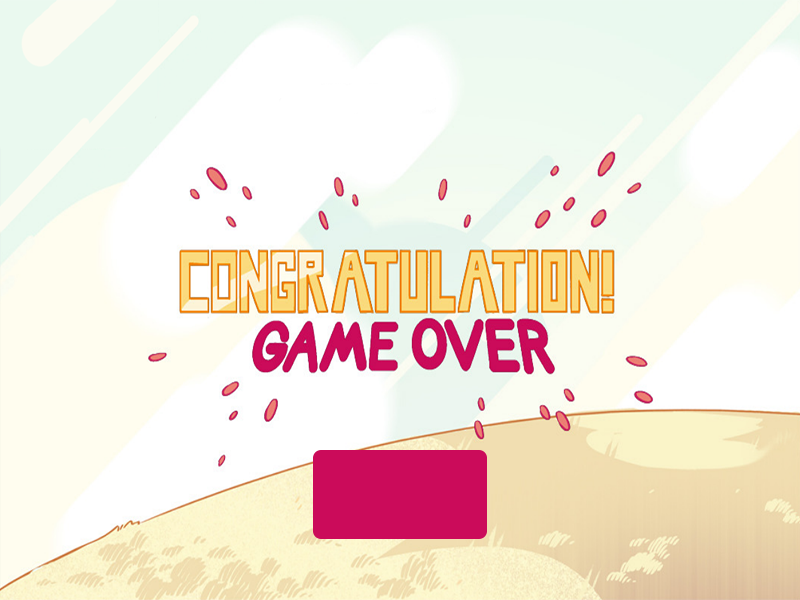
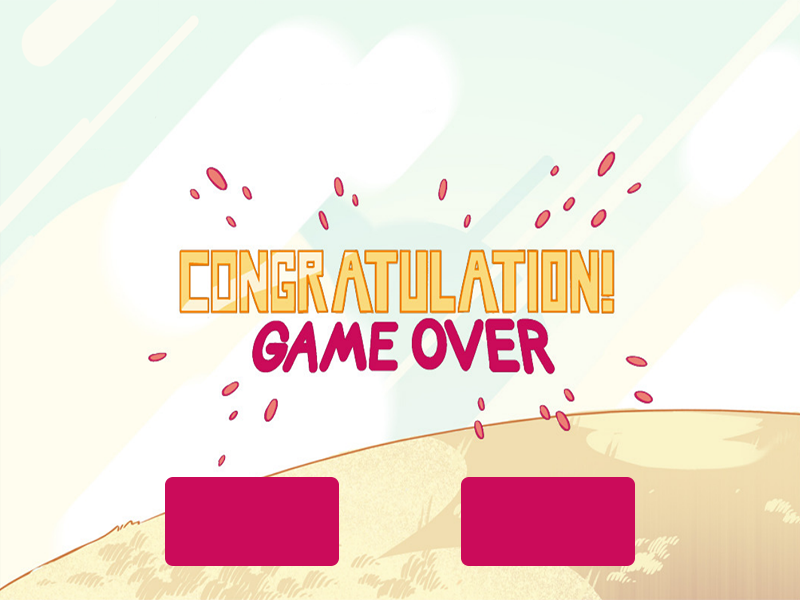
added credits and completed game

Changed region(s): [[0.1875, 0.75, 0.8125, 0.96]]

diff --git a/src/scenes/GameOver.js b/src/scenes/GameOver.js
@@ -7,24 +7,37 @@ class GameOver extends Phaser.Scene {
         // text variables
         this.FONT = 'monkey_font'
         this.TEXT_SIZE = 44
+
+        // credits flags
+        this.creditsShowing = false
+        this.creditsMoving = false
     }
 
     create() {
         // set background
         this.add.image(0, 0, 'gameover_bg').setOrigin(0, 0)
+        this.cameras.main.fadeIn(500)
 
         // add return text
-        this.enemyText = this.add.bitmapText(width/2, 500, this.FONT, ' [SPACE]\nTo Return', this.TEXT_SIZE).setOrigin(.5,.5)
+        this.returnText = this.add.bitmapText(width*.315, 525, this.FONT, '[SPACE]\nReturn', this.TEXT_SIZE).setOrigin(.5,.5)
+        this.showCreditsText = this.add.bitmapText(width*.685, 525, this.FONT, '[SHIFT]\nCredits', this.TEXT_SIZE).setOrigin(.5,.5)
 
         // play background music
         this.bgm = this.sound.add('ending_theme', {volume: bgmVolume})
         this.bgm.play()
+
+        // add credits
+        this.credits = this.add.sprite(width/2, height-1000, 'battle_menu').setDepth(1).setScale(1.4)
+        this.creditsText = this.add.bitmapText(width*.5, height-1000, this.FONT,
+            '    -Credits-\nOriginal Concept: Joe Johnston\nArt: Steven Universe Team\nAnimation: Andrew Degan\nProgramming: Andrew Degan\nMusic: Aivi & Surasshu\nSFX: Steven Universe Team\nGame Design: Andrew Degan',
+            32).setDepth(1).setOrigin(.5,.5)
 
         // setup keyboard input
         this.keys = this.input.keyboard.createCursorKeys()
     }
 
     update() {
+        // return to title
         if (this.keys.space.isDown) {
             // reset global variables
             startFade = true
@@ -42,6 +55,41 @@ class GameOver extends Phaser.Scene {
             // return to title
             this.bgm.stop()
             this.scene.start('menuScene')
+        }
+
+        // add credits tweens
+        this.creditsShow = this.tweens.add({
+            paused: true,
+            targets: [this.credits, this.creditsText],
+            y: {from: height-1000, to: height*.4},
+            duration: 1000,
+            ease: 'Quad.easeOut',
+            onComplete: () => {
+                this.creditsShowing = true
+                this.creditsMoving = false
+            }
+        })
+        this.creditsHide = this.tweens.add({
+            paused: true,
+            targets: [this.credits, this.creditsText],
+            y: {from: height*.4, to: height-1000},
+            duration: 1000,
+            ease: 'Quad.easeOut',
+            onComplete: () => {
+                this.creditsShowing = false
+                this.creditsMoving = false
+            }
+        })
+
+        // toggle credits
+        if (this.keys.shift.isDown && !this.creditsMoving) {
+            if (this.creditsShowing){
+                this.creditsHide.play()
+            } else {
+                this.creditsShow.play()
+            }
+
+            this.creditsMoving = true
         }
     }
 }

diff --git a/src/scenes/Menu.js b/src/scenes/Menu.js
@@ -3,8 +3,17 @@ class Menu extends Phaser.Scene {
         super("menuScene")
     }
 
+    init() {
+        // text variables
+        this.FONT = 'monkey_font'
+        this.TEXT_SIZE = 28
+    }
+
     preload() {
         this.load.path = './assets/'
+
+        // load bitmap font
+        this.load.bitmapFont('monkey_font', 'fonts/monkey.png', 'fonts/monkey.xml')
 
         // load images
         this.load.image('title_bg', 'backgrounds/title_image.png')
@@ -29,6 +38,9 @@ class Menu extends Phaser.Scene {
             hold: 150,
             repeat: -1,
         })
+
+        // add class information
+        this.classInfo = this.add.bitmapText(10, height, this.FONT, 'UCSC Winter 2025 - CMPM 120', this.TEXT_SIZE).setOrigin(0,1)
 
         // add sound effects
         this.titleBlip = this.sound.add('title_blip', { volume: sfxVolume })

diff --git a/src/main.js b/src/main.js
@@ -2,6 +2,21 @@
 // Name: Andrew Degan
 // Adapted Game: Golf Quest Mini (from Steven Universe)
 
+// Phaser Major Components:
+// Physics Systems
+// Cameras
+// Text Objects
+// Animation Manager
+// Tween Manager
+// Timers, etc.
+
+// Missable Features:
+// Game controls show up if player does not move at beginning of game
+
+// Asset Citation:
+// Golf Quest Mini concept art by the Steven Universe Team:
+// https://stevencrewniverse.tumblr.com/post/90482139787/a-selection-of-character-prop-and-effect-designs
+
 'use strict'
 
 const config = {

diff --git a/src/scenes/Load.js b/src/scenes/Load.js
@@ -23,9 +23,6 @@ class Load extends Phaser.Scene {
         // load JSON (dialogue text)
         this.load.json('dialogue', 'json/dialogue.json')
 
-        // load bitmap font
-        this.load.bitmapFont('monkey_font', 'fonts/monkey.png', 'fonts/monkey.xml')
-
         // load dialogue assets
         this.load.image('dialogue_box', 'sprites/dialogue_box.png')
         this.load.image('sandtraps_portrait', 'sprites/sandtraps_portrait.png')

diff --git a/src/scenes/Battle.js b/src/scenes/Battle.js
@@ -14,7 +14,7 @@ class Battle extends Phaser.Scene {
         this.TEXT_SIZE = 44
 
         // menu variables
-        this.menuCooldown = 60
+        this.menuCooldown = 30
         this.menuTimer = 0
 
         this.showIntro = false
